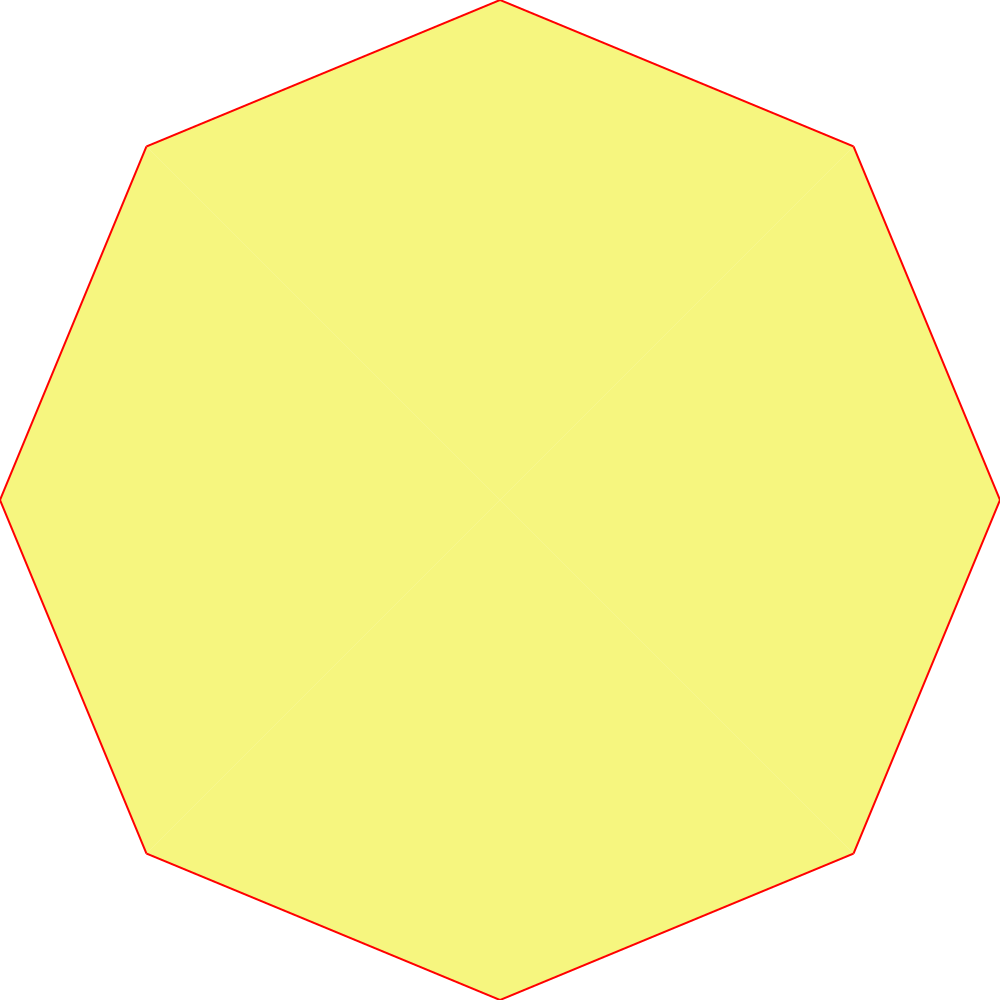
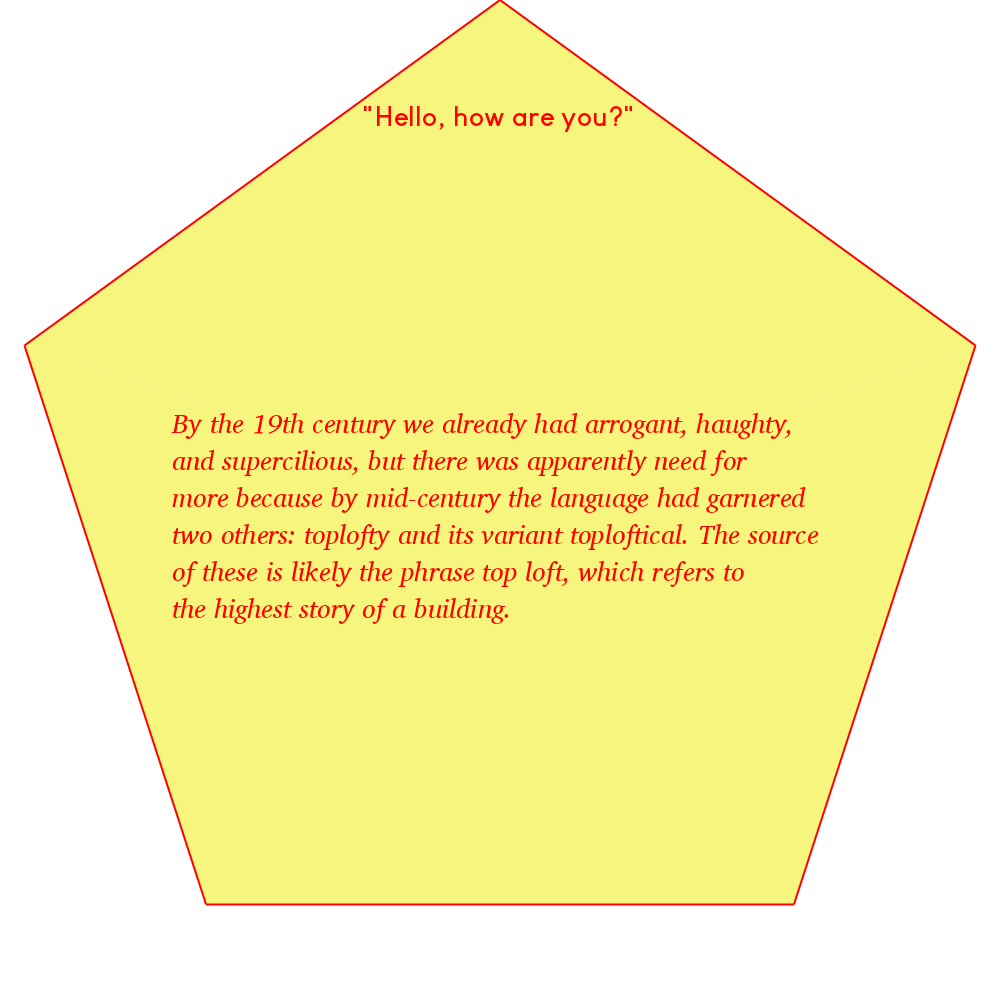
better text flow

Changed region(s): [[0.0, 0.0, 1.0, 1.0], [0.155, 0.403, 0.806, 0.62]]

diff --git a/code/visuals/elements/text_box.py b/code/visuals/elements/text_box.py
@@ -11,7 +11,6 @@ import string
 import numpy as np
 
 from visuals.helpers.colour_library import hex_to_RGB
-
 from visuals.helpers.text_wrapper import solveWordWrap, solution_to_rownumber, printSolution
 
 class TextBox():
@@ -39,6 +38,7 @@ class TextBox():
         self.font = None
         
         self.theme = dict(theme)
+        
         
         if self.theme == {}:
             self.font_size = self.greedy_solver()
@@ -132,7 +132,7 @@ class TextBox():
                 if new_shape[0] > self.width or new_shape[1] > self.height:
                     font_size -= 1
                     tmp_font = ImageFont.truetype(self.font_name, font_size)
-                    new_shape = self.get_text_dimensions(combine_text, tmp_font)
+                    new_shape = self.compute_size(combine_text, tmp_font) #self.get_text_dimensions(combine_text, tmp_font)
                     self.text_shape = new_shape
                     self.font = tmp_font
                     
@@ -141,14 +141,14 @@ class TextBox():
                 font_size += 1
         else:            
             solutions = []
-                        
-            for font_size in range(20, 80):
-                solution = self.tex_solver(text_list, text_string, font_size)
-                if solution:
+                   
+            print("computing text sizes", self.text_string)
+            for font_size in range(20, 150):
+                solution = self.greedy_solver_multiline(text_list, font_size)
+
+                if solution["valid"]:
                     solutions.append(solution)
-                    # font_size +=  1
-                # else:
-                #     break
+
             
         best_score = 2 ** 31 - 1
         best_id = 2 ** 31 - 1
@@ -158,18 +158,96 @@ class TextBox():
                 best_id = c
         # print(solutions)
         best_solution = solutions[best_id]
+
+        # print(best_score, best_solution)
         
-        
-        # print(best_solution)
-        
-        self.font_size = best_solution["font_size"]
-        tmp_font = ImageFont.truetype(self.font_name, self.font_size)
+        font_size = best_solution["font_size"]
+        tmp_font = ImageFont.truetype(self.font_name, font_size)
         self.font = tmp_font
         self.text_string = best_solution["full_string"]
         new_shape = self.get_text_dimensions(self.text_string, tmp_font)        
         self.new_shape = best_solution["new_shape"]
         
         return font_size
+    
+    def greedy_solver_multiline(self, text_list, font_size):
+        tmp_font = ImageFont.truetype(self.font_name, font_size)
+                
+        lines = []
+        line_sizes = []
+        line = ""
+        for c, word in enumerate(text_list):
+            # print(word, "-", line)
+            new_shape = self.compute_size(line, tmp_font)
+            next_shape = [0, 0]
+            if c < len(text_list) - 1:
+                next_shape = self.compute_size((line + text_list[c + 1]).strip(), tmp_font)
+            if next_shape[0] > self.width:
+                lines.append(line.strip())
+                line_sizes.append(new_shape)
+                line = word + " "
+            else:
+                line += word + " "                
+        lines.append(line.strip())
+        line_sizes.append(new_shape)
+        
+        combined_str = ""
+        
+        for line in lines:
+            combined_str += line + "\n"
+        combined_str = combined_str.strip()
+        
+        # Compute score
+        height = 0
+        widths = []
+        for dim in line_sizes:
+            height += dim[1]
+            widths.append(dim[0])
+            
+        score = (height - self.height) ** 2
+        for width in widths:
+            score += (width - self.width) ** 2
+            
+        final_shape = self.compute_size(combined_str, tmp_font)
+        # print(line_sizes, height, widths, score, final_shape)
+        
+        valid_sol = True
+        if final_shape[0] > self.width or final_shape[1] > self.height:
+            valid_sol = False
+        
+        solution = {}        
+        solution["font_size"] = font_size
+        solution["score"] = score
+        solution["new_shape"] = new_shape
+        solution["full_string"] = combined_str
+        solution["valid"] = valid_sol
+        
+        return solution
+        
+        
+        # print(combine_text, text_list[0])
+        
+        # print(new_shape, (self.width, self.height))
+        # new_shape = self.compute_size(combine_text, tmp_font)
+        # print(new_shape)
+        
+        
+        # print(font_size, text_list)
+        # new_shape = self.compute_size(combine_text, tmp_font)
+        # #new_shape = tmp_font.getsize(combine_text)                
+        # #new_shape = self.get_text_dimensions(combine_text, tmp_font)
+        
+        # if new_shape[0] > self.width or new_shape[1] > self.height:
+        #     font_size -= 1
+        #     tmp_font = ImageFont.truetype(self.font_name, font_size)
+        #     new_shape = self.get_text_dimensions(combine_text, tmp_font)
+        #     self.text_shape = new_shape
+        #     self.font = tmp_font
+            
+        #     return font_size
+        
+        # font_size += 1
+    
     
     def tex_solver(self, text_list, text_string, font_size):
         combine_text = ""
@@ -271,8 +349,11 @@ class TextBox():
         text_height = font.getmask(text_string).getbbox()[3] + descent
     
         return [text_width, text_height]
-    
-    def compute_text_position(self):       
+
+    def compute_text_position(self):
+        tmp_font = ImageFont.truetype(self.font_name, self.font_size)
+        self.text_shape = self.compute_size(self.text_string, tmp_font)
+        
         if self.text_align == "top":
             x = self.x - self.width
             y = self.y - self.height
@@ -287,11 +368,15 @@ class TextBox():
 if __name__ == "__main__":
     import numpy as np
     import drawSvg as draw
+    
+    import os
 
     from polygon import Polygon
     
+    root_path = os.path.abspath(__file__).replace("code/visuals/elements/text_box.py", "")
+    
     #dummy_text = "Lorem ipsum dolor sit amet, consectetur adipiscing elit. Quisque elementum sem nec tortor varius, vel molestie tortor consectetur. Morbi eleifend est a nisi molestie maximus. Aliquam condimentum vulputate arcu eget dapibus. Quisque interdum purus eget lacus vestibulum pellentesque. Quisque ultricies eget nunc eget hendrerit. Vestibulum lobortis, orci ac ultricies pharetra, augue odio viverra enim, sed finibus elit nunc eget neque. Fusce at leo pellentesque, dapibus neque pharetra, consequat orci. Sed et nisi arcu. Cras sit amet pharetra ipsum. Aliquam fringilla lectus mattis mi efficitur, eget blandit augue pharetra. Quisque mollis egestas orci quis facilisis. Morbi ullamcorper enim ac elit pharetra bibendum. Donec malesuada mollis leo, ut aliquam dui iaculis mollis. Mauris placerat enim tellus, ut suscipit erat laoreet vitae. In hac habitasse platea dictumst. Etiam nec libero nibh."
-    dummy_text = "Test this reasonably long string. Twinkle twinkle little star, how I wonder what you are. Shinning long string. Twinkle twinkle up above so high, like a diamond in the sky. Twinkle twinkle little star, how I wonder what you are. Twinkle twinkle little star, how I wonder what you are. Shinning up above so high, like a diamond in the sky. Twinkle twinkle little star, how I wonder what you are. Twinkle twinkle little star, how I wonder what you are. Shinning up above so high, like a diamond in the sky. Twinkle twinkle little star, how I wonder what you are. Twinkle twinkle little star, how I wonder what you are. Shinning up above so high, like a diamond in the sky. Twinkle twinkle little star, long string. Twinkle twinkle how I wonder what you are. Shinning long string. Twinkle twinkle up above so high, like a diamond in the sky. Twinkle twinkle little star, how I wonder what you are. Twinkle twinkle little star, how I wonder what you are. Shinning up above so high, like a diamond in the sky. Twinkle twinkle little star, how I wonder what you are. Twinkle twinkle little star, how I wonder what you are. Shinning up above so high, like a diamond in the sky. Twinkle twinkle little star, how I wonder what you are. Twinkle twinkle little star, how I wonder what you are. Shinning up above so high, like a diamond in the sky. Twinkle twinkle little star, long string. Twinkle twinkle how I wonder what you are."
+    #dummy_text = "Test this reasonably long string. Twinkle twinkle little star, how I wonder what you are. Shinning long string. Twinkle twinkle up above so high, like a diamond in the sky. Twinkle twinkle little star, how I wonder what you are. Twinkle twinkle little star, how I wonder what you are. Shinning up above so high, like a diamond in the sky. Twinkle twinkle little star, how I wonder what you are. Twinkle twinkle little star, how I wonder what you are. Shinning up above so high, like a diamond in the sky. Twinkle twinkle little star, how I wonder what you are. Twinkle twinkle little star, how I wonder what you are. Shinning up above so high, like a diamond in the sky. Twinkle twinkle little star, long string. Twinkle twinkle how I wonder what you are. Shinning long string. Twinkle twinkle up above so high, like a diamond in the sky. Twinkle twinkle little star, how I wonder what you are. Twinkle twinkle little star, how I wonder what you are. Shinning up above so high, like a diamond in the sky. Twinkle twinkle little star, how I wonder what you are. Twinkle twinkle little star, how I wonder what you are. Shinning up above so high, like a diamond in the sky. Twinkle twinkle little star, how I wonder what you are. Twinkle twinkle little star, how I wonder what you are. Shinning up above so high, like a diamond in the sky. Twinkle twinkle little star, long string. Twinkle twinkle how I wonder what you are."
     #dummy_text = "This is some random text that has no meaning. I just want to fill in the space with random nonsense which looks somewhat legit."
     #dummy_text = "Hello, how are you?"
     
@@ -300,7 +385,7 @@ if __name__ == "__main__":
     
     d = draw.Drawing(SCREEN_WIDTH, SCREEN_HEIGHT, origin='center', displayInline=False)
     
-    n_sides = 8
+    n_sides = 5
 
     p = Polygon(n_sides,500, 1, 60, phi =  5*np.pi/(2) )
                    
@@ -355,6 +440,7 @@ if __name__ == "__main__":
     
     draw = ImageDraw.Draw(image)
     
+    print(box_points_bottom[0], box_points_bottom[1], box_points_bottom[2], box_points_bottom[3])
     
     text_box = TextBox(duration = 5,
                        framerate = 60,
@@ -362,14 +448,14 @@ if __name__ == "__main__":
                         y = box_points_bottom[1],
                         width = box_points_bottom[2],
                         height = box_points_bottom[3],
-                        text = "This is some random text that has no meaning. I just want to fill in the space with random nonsense which looks somewhat legit.",
+                        text = "By the 19th century we already had arrogant, haughty, and supercilious, but there was apparently need for more because by mid-century the language had garnered two others: toplofty and its variant toploftical. The source of these is likely the phrase top loft, which refers to the highest story of a building.",
                         #font_name = 'fonts/Spring in May.ttf',
                         #font_name = 'fonts/The Californication.ttf',
                         #font_name = 'fonts/Afterglow-Regular.ttf',
                         #font_name = 'fonts/Hello Valentina.ttf',
                         #font_name = 'fonts/Birds of Paradise.ttf',
                         #font_name = 'fonts/Baby Doll.ttf',
-                        font_name = '../fonts/Louis George Cafe/Louis George Cafe.ttf',
+                        font_name = root_path + 'fonts/CharisSILI.ttf',
                        
                         max_lines = None)  
     
@@ -390,7 +476,7 @@ if __name__ == "__main__":
                        #font_name = 'fonts/Hello Valentina.ttf',
                        #font_name = 'fonts/Birds of Paradise.ttf',
                        #font_name = 'fonts/Baby Doll.ttf',
-                       font_name = '../fonts/Louis George Cafe/Louis George Cafe Bold.ttf',
+                       font_name = root_path + 'fonts/Louis George Cafe/Louis George Cafe Bold.ttf',
                        
                        max_lines = None)  
     

diff --git a/code/visuals/post_layout.py b/code/visuals/post_layout.py
@@ -41,7 +41,7 @@ class PostLayout():
             theme["position"] = rect_settings[:2]
             theme["width"] = rect_settings[2]
             theme["height"] = rect_settings[3]
-            obj_dict["theme"] = theme
+            obj_dict["theme"] = dict(theme)
             
             
             self.objects.append(obj_dict)
@@ -75,7 +75,7 @@ class PostLayout():
             theme["max_lines"] = text_box.max_lines
             theme["text_align"] = text_box.text_align
             
-            obj_dict["theme"] = theme
+            obj_dict["theme"] = dict(theme)
                         
             self.objects.append(obj_dict)
                                     
@@ -83,15 +83,15 @@ class PostLayout():
         if not self.compute_inner_box is None:
             obj_dict = {
                 "duration" : 5,
-                "start_time" : 0
+                "start_time" : 5
                 }
             theme = dict(self.theme["textbox"])
-            rect_settings = self.compute_inner_box(-150, 300)
+            rect_settings = self.compute_inner_box(-125, 300)
             obj_dict["object_type"] = "rectangle"
             theme["position"] = rect_settings[:2]
             theme["width"] = rect_settings[2]
             theme["height"] = rect_settings[3]
-            obj_dict["theme"] = theme
+            obj_dict["theme"] = dict(theme)
             
             
             self.objects.append(obj_dict)
@@ -125,7 +125,7 @@ class PostLayout():
             theme["max_lines"] = text_box.max_lines
             theme["text_align"] = text_box.text_align
             
-            obj_dict["theme"] = theme
+            obj_dict["theme"] = dict(theme)
                         
             self.objects.append(obj_dict)
         
@@ -174,7 +174,7 @@ class PostLayout():
             theme["max_lines"] = text_box.max_lines
             theme["text_align"] = text_box.text_align
             
-            obj_dict["theme"] = theme
+            obj_dict["theme"] = dict(theme)
                         
             self.objects.append(obj_dict)
         
@@ -205,7 +205,7 @@ class PostLayout():
                                 text = self.etymology.new_row["usage"],
                                 font_name = self.root_path + 'fonts/CharisSILI.ttf',
                                 text_align = "center",
-                                max_lines = 1)
+                                max_lines = None)
             
             obj_dict = {
                 "duration" : 5,
@@ -224,10 +224,11 @@ class PostLayout():
             theme["max_lines"] = text_box.max_lines
             theme["text_align"] = text_box.text_align
             
-            obj_dict["theme"] = theme
+            obj_dict["theme"] = dict(theme)
                         
             self.objects.append(obj_dict)
                 
+        
         obj_dict = {
             "duration" : 5,
             "start_time" : 5
@@ -252,13 +253,15 @@ class PostLayout():
                             height = rect_settings[3],
                             text = self.etymology.new_row["etym"],
                             font_name = self.root_path + 'fonts/CharisSILI.ttf',
-                            text_align = "top",
+                            text_align = "center",
                             max_lines = None)
         
+        # print(self.etymology.new_row["etym"])
         obj_dict = {
             "duration" : 5,
             "start_time" : 5
             }
+        # print(text_box.font_size, text_box.text_string)
         theme = dict(self.theme["textbox"])
         obj_dict["object_type"] = "text_box"
         theme["text_position"] = text_box.text_position
@@ -272,7 +275,9 @@ class PostLayout():
         theme["max_lines"] = text_box.max_lines
         theme["text_align"] = text_box.text_align
         
-        obj_dict["theme"] = theme
+        # print(theme)
+        
+        obj_dict["theme"] = dict(theme)
                     
         self.objects.append(obj_dict)
         

diff --git a/code/visuals/display.py b/code/visuals/display.py
@@ -22,7 +22,7 @@ class Display():
             "background" : {
                 # If None, then default to the first colour in palette
                 # [R, G, B]
-                "colour" : np.random.sample([0, 0, 0], [255, 255, 255]),
+                "colour" : [[0, 0, 0], [255, 255, 255]][np.random.randint(0,2)],
                 },
             "bubble" : {
                 "n_max" : 50,
@@ -88,8 +88,8 @@ class Display():
                              ]
                         
         n_sides = np.random.randint(self.theme["polygon"]["n_sides_min"],
-                                    self.theme["polygon"]["n_sides_max"])
-        if n_sides == 9:
+                                    self.theme["polygon"]["n_sides_max"] + 1)
+        if n_sides == self.theme["polygon"]["n_sides_max"]:
             n_sides = 50
             
         self.theme["polygon"]["n_sides"] = n_sides
